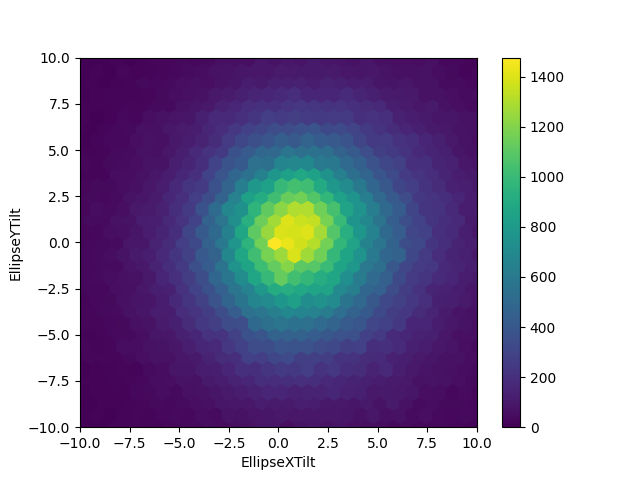
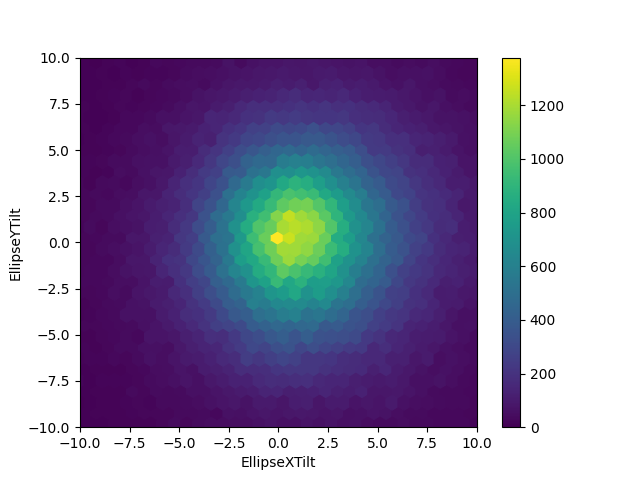
Fixed depth memory dependency
Made depth memory not a linear combination of the original dataset

diff --git a/scrips/main.py b/scrips/main.py
@@ -82,8 +82,8 @@ for z in zz:    #Iterate by layer
             xcor = pv.wdm(df_zp[:,0], df_z[:,0], 'cor')
             ycor = pv.wdm(df_zp[:,1], df_z[:,1], 'cor')
             #Set tilt angles using depth memory
-            xtilt = data_sim_arr[i,z-1][:,0] * xcor + (data_sim_arr[i,z][:,0] - df_z[:,0]) * (1-xcor)
-            ytilt = data_sim_arr[i,z-1][:,1] * ycor + (data_sim_arr[i,z][:,1] - df_z[:,1]) * (1-ycor)
+            xtilt = data_sim_arr[i,z-1][:,0] * xcor + (data_sim_arr[i,z][:,0]) * (1-xcor**2) ** 0.5
+            ytilt = data_sim_arr[i,z-1][:,1] * ycor + (data_sim_arr[i,z][:,1]) * (1-ycor**2) ** 0.5
             data_sim_arr[i,z] = np.concatenate([np.reshape(xtilt, (-1, 1)), np.reshape(ytilt, (-1, 1))], axis=1)
         elif z==1:
             data_sim_arr[i,0] = data_sim_arr[i,1] #Backwards fill data to initial layer
